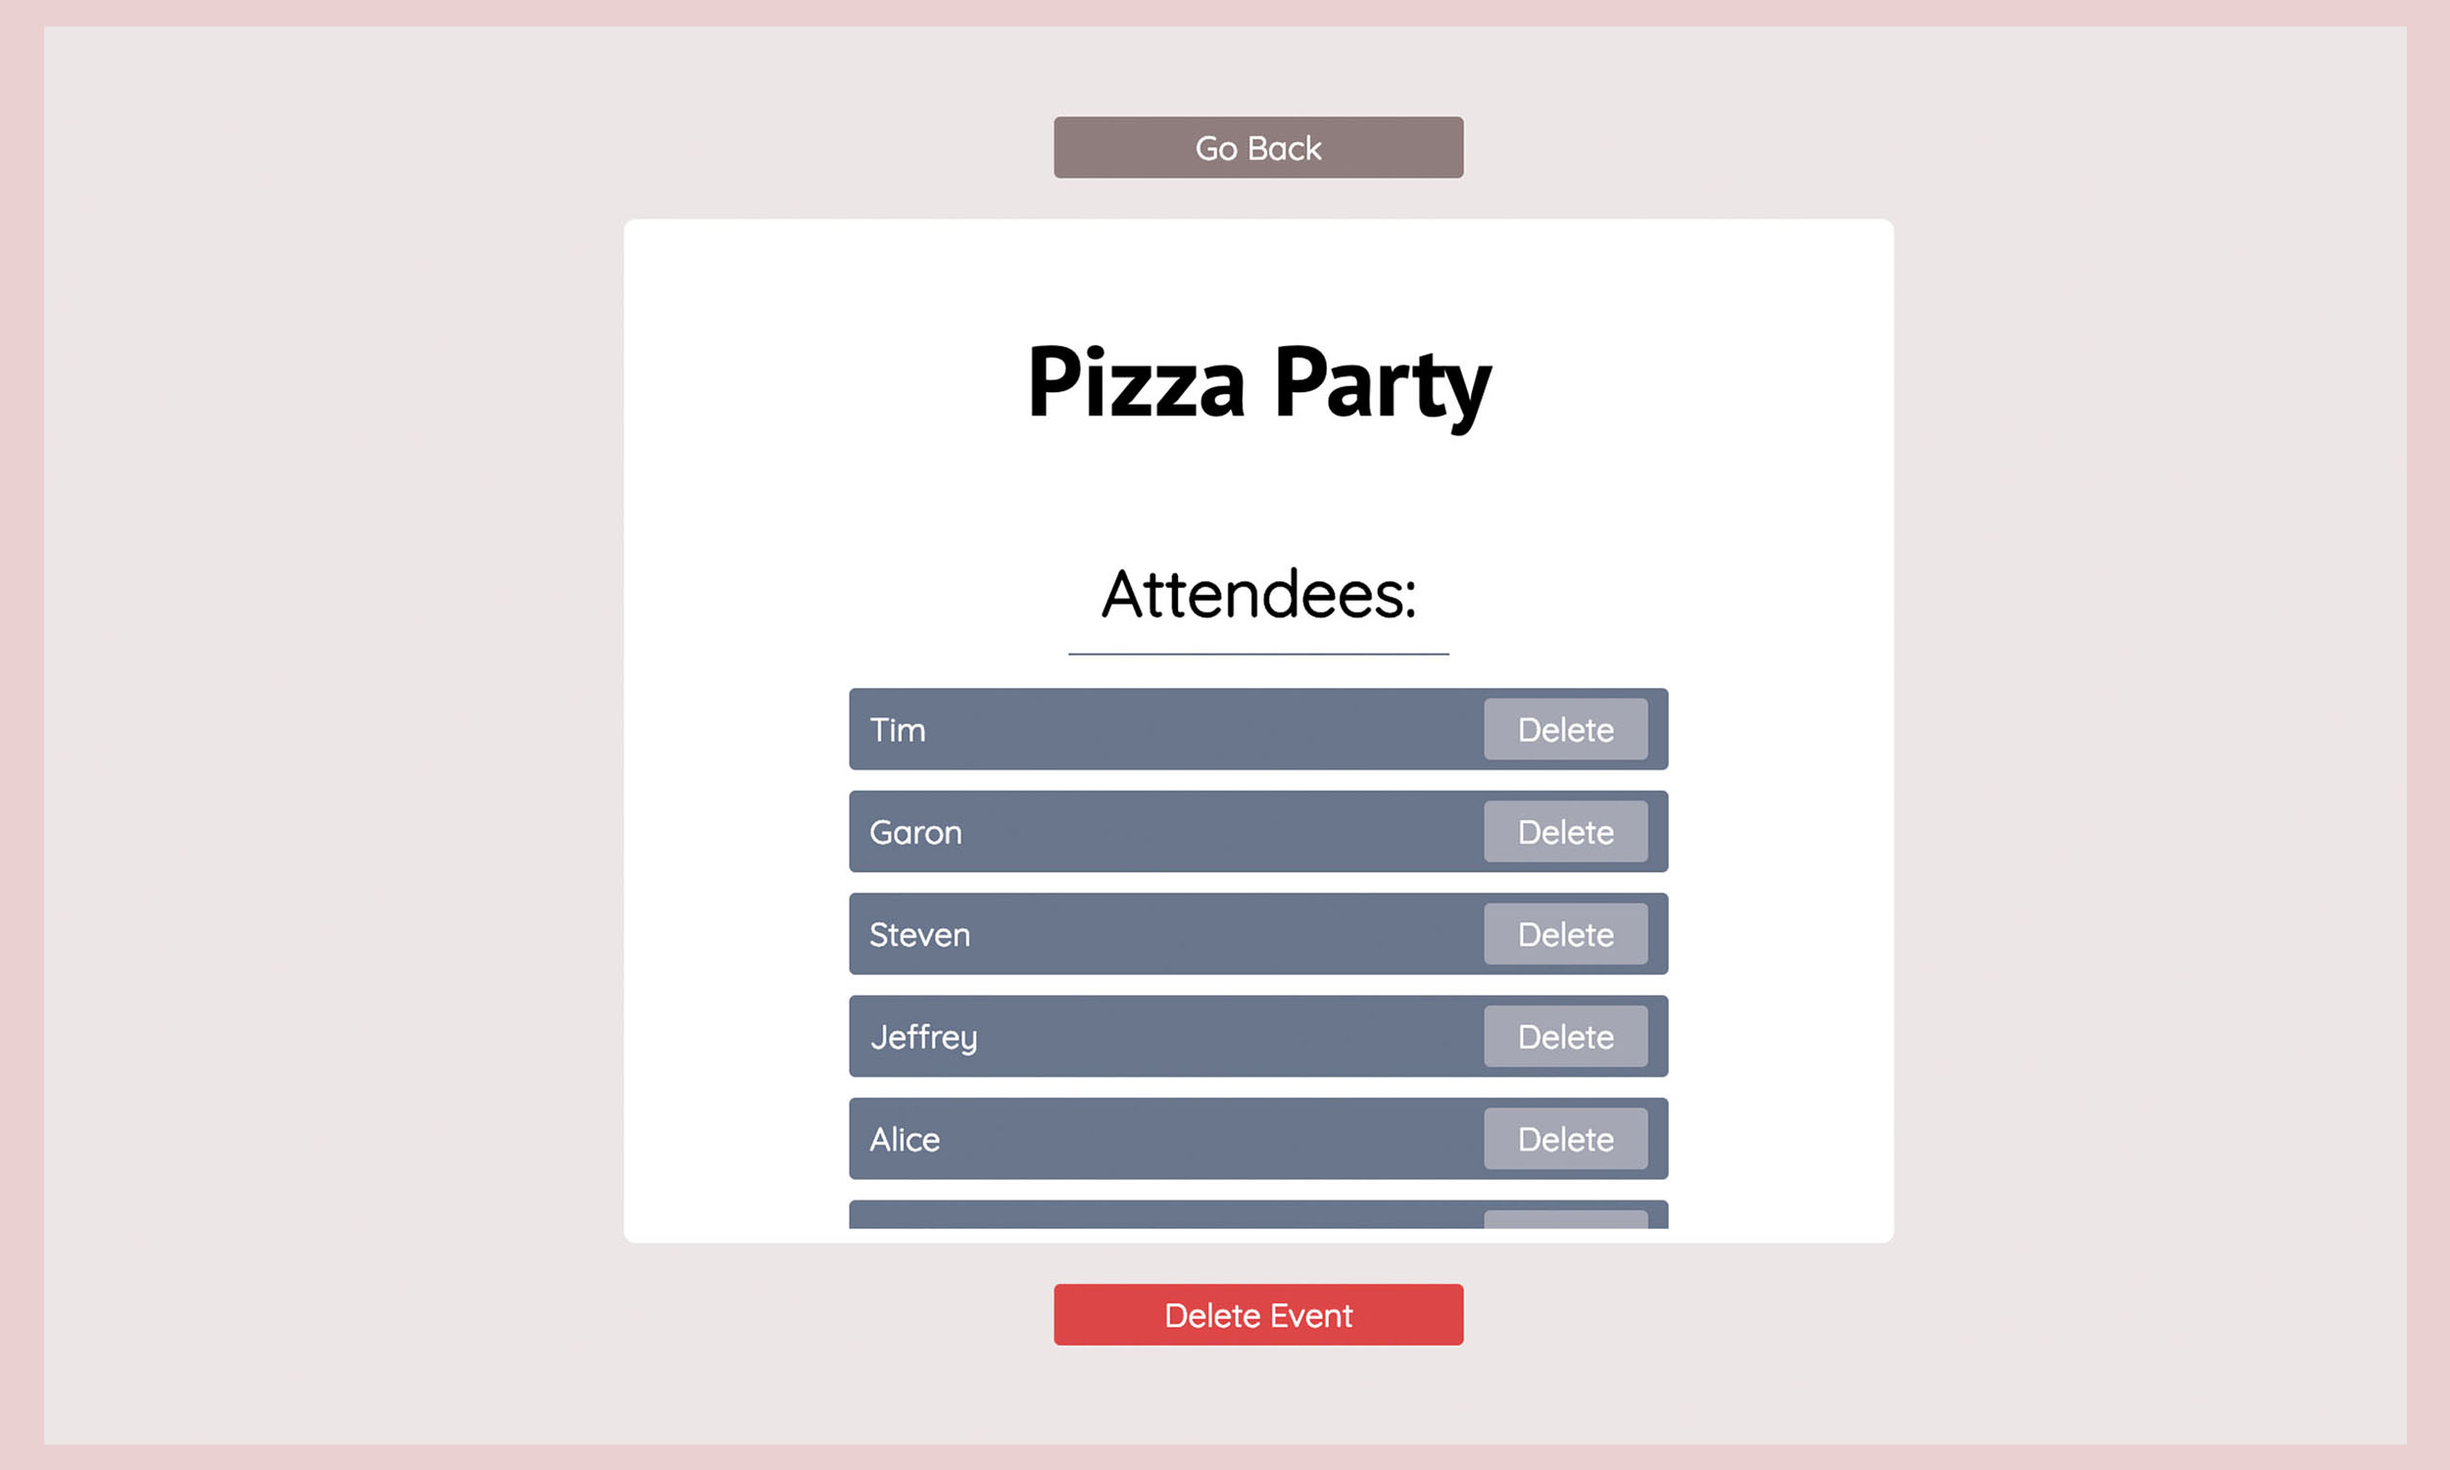
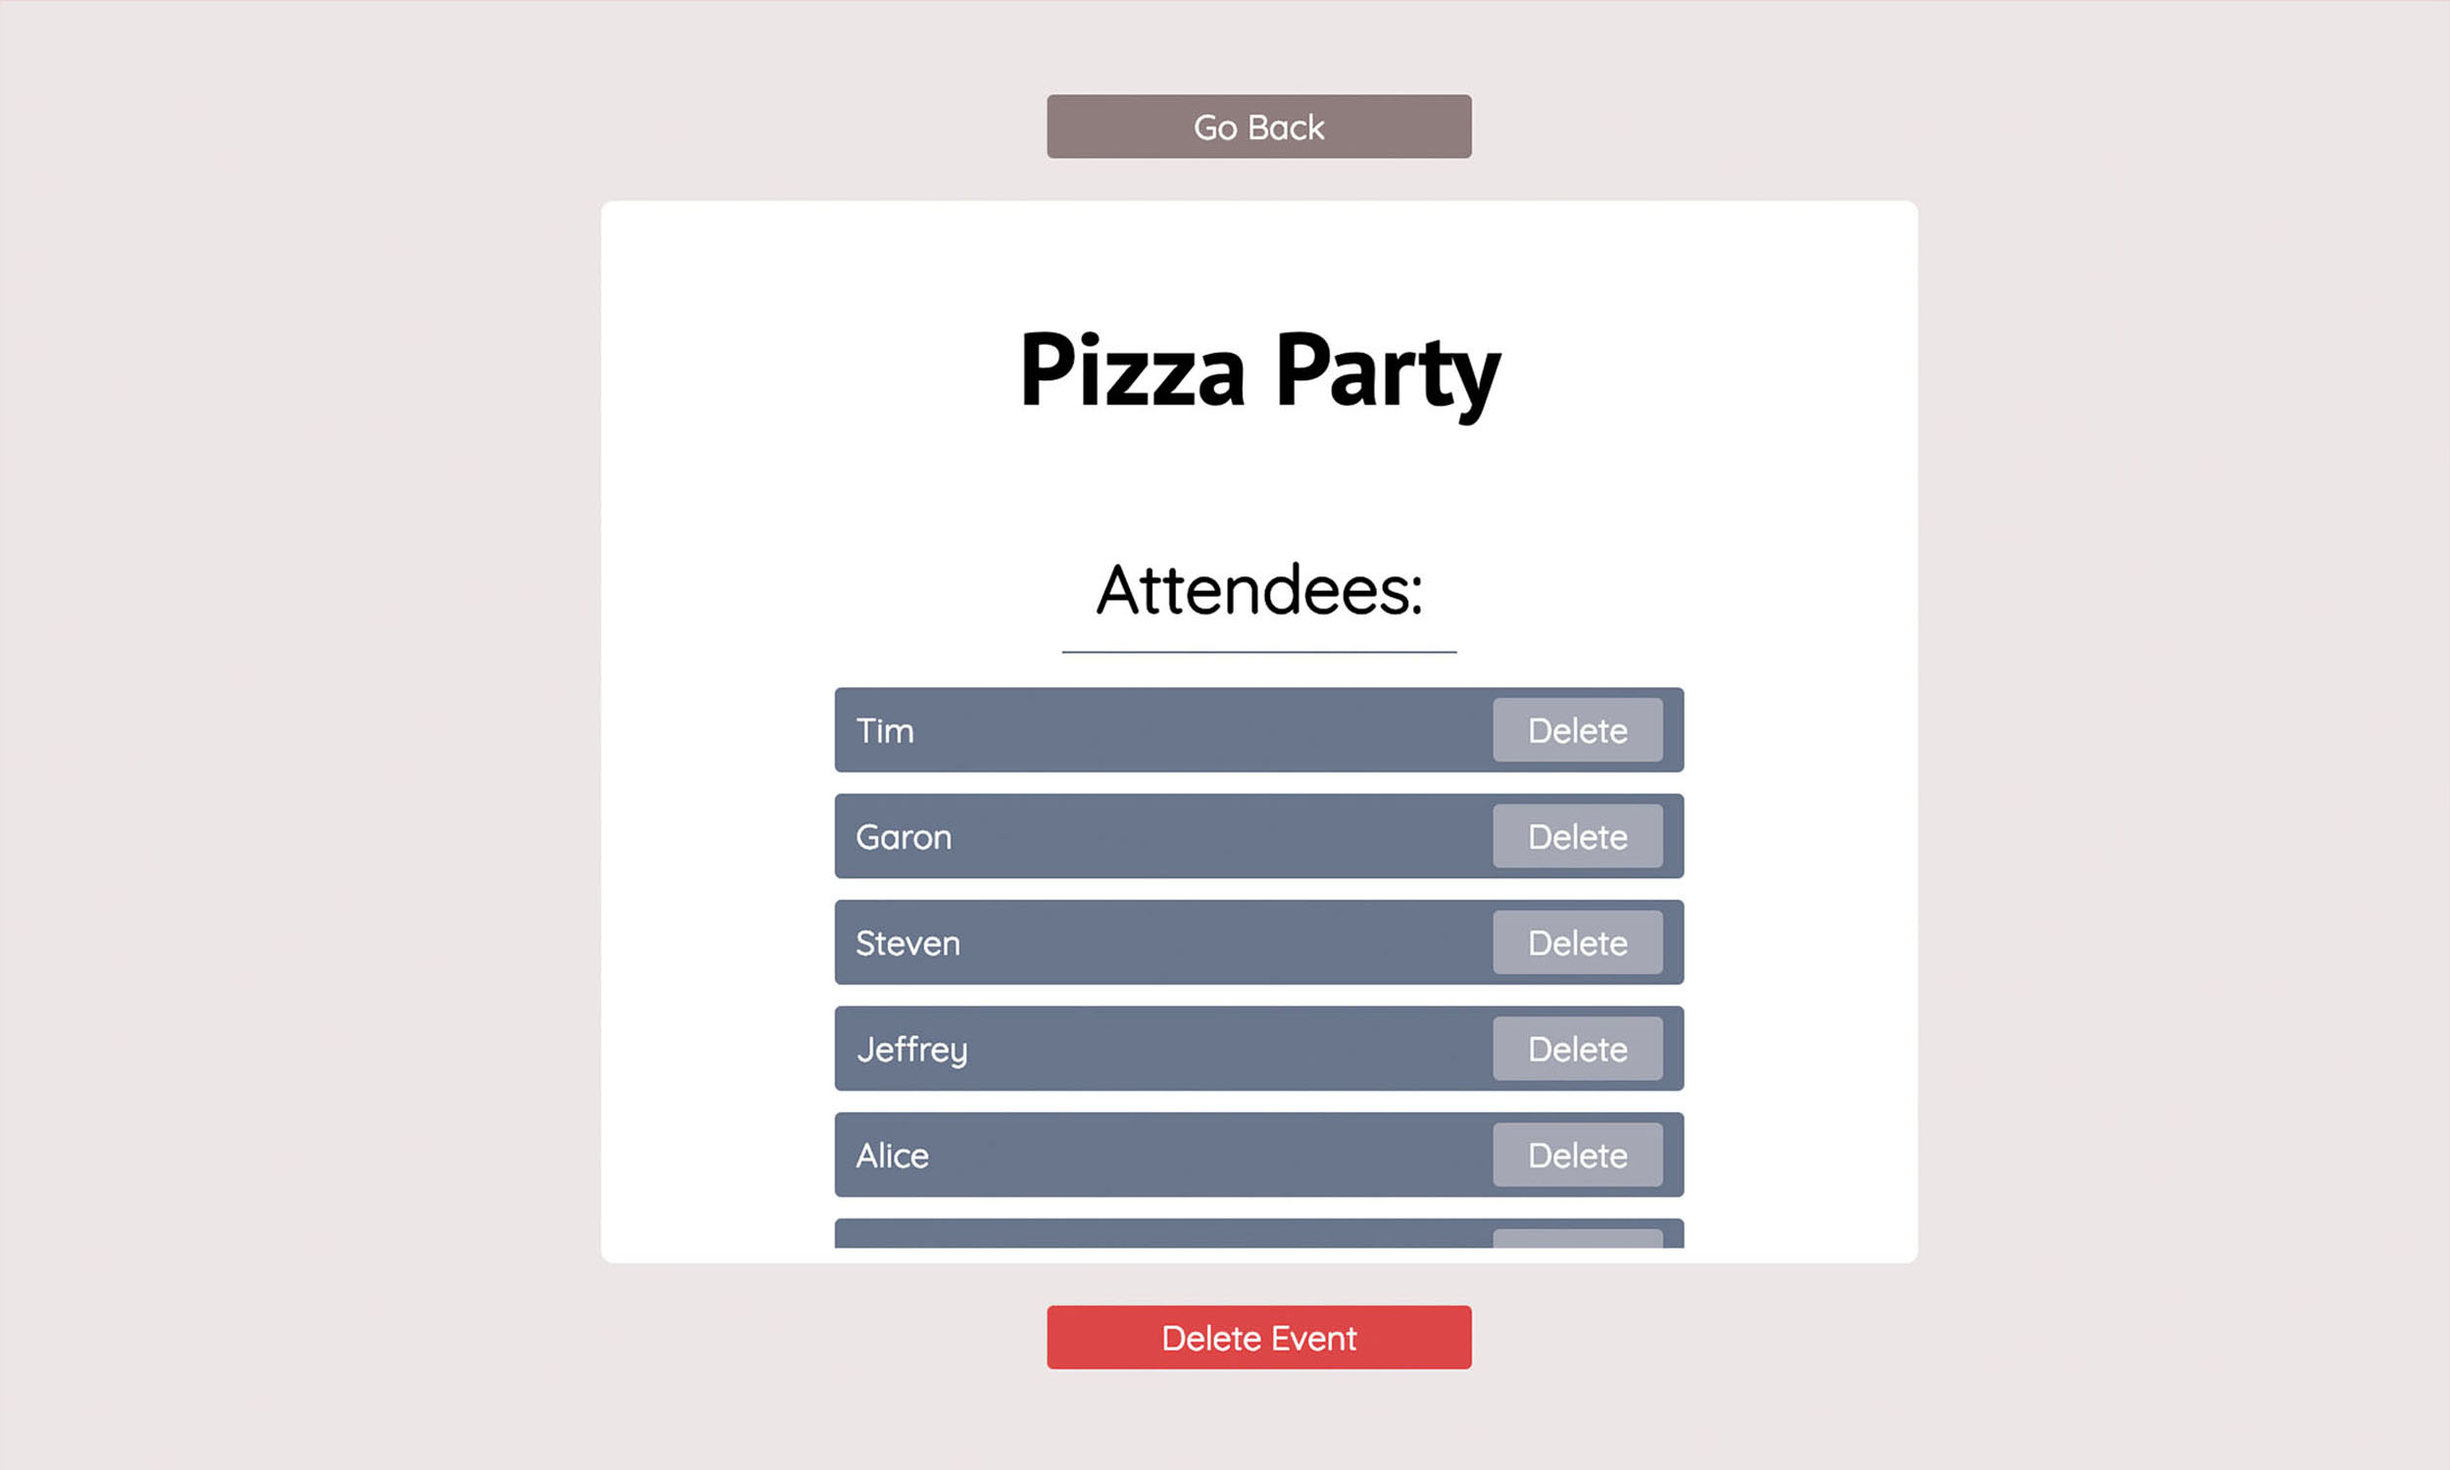
Adding fade animations for project split template peices. Looks nice :)

Changed region(s): [[0.2184, 0.0613, 0.78, 0.9507], [0.4056, 0.2147, 0.624, 0.3067], [0.4368, 0.368, 0.5928, 0.46]]

diff --git a/src/js/SplitTemplate.js b/src/js/SplitTemplate.js
@@ -1,6 +1,7 @@
 import React, { Component } from 'react';
 import ProjectBio from './ProjectBio';
 import LandingBlurb from './LandingBlurb';
+import Fade from 'react-reveal/Fade';
 
 class SplitTemplate extends Component {
 
@@ -20,13 +21,16 @@ class SplitTemplate extends Component {
   render() {
     return (
       <div className="SplitParent">
-        <div className={`split left ${this.props.isLanding ? "landingLeft" : ""}`}>
-          { this.renderContent(this.props.leftType, this.props.leftContent) }
-        </div>
-        
-        <div className={`split right ${this.props.isLanding ? "landingRight" : ""}`}>
-          { this.renderContent(this.props.rightType, this.props.rightContent) }
-        </div>
+        <Fade>
+          <div className={`split left ${this.props.isLanding ? "landingLeft" : ""}`}>
+            { this.renderContent(this.props.leftType, this.props.leftContent) }
+          </div>
+        </Fade>
+        <Fade>
+          <div className={`split right ${this.props.isLanding ? "landingRight" : ""}`}>
+            { this.renderContent(this.props.rightType, this.props.rightContent) }
+          </div>
+        </Fade>
       </div>
     );
   }
